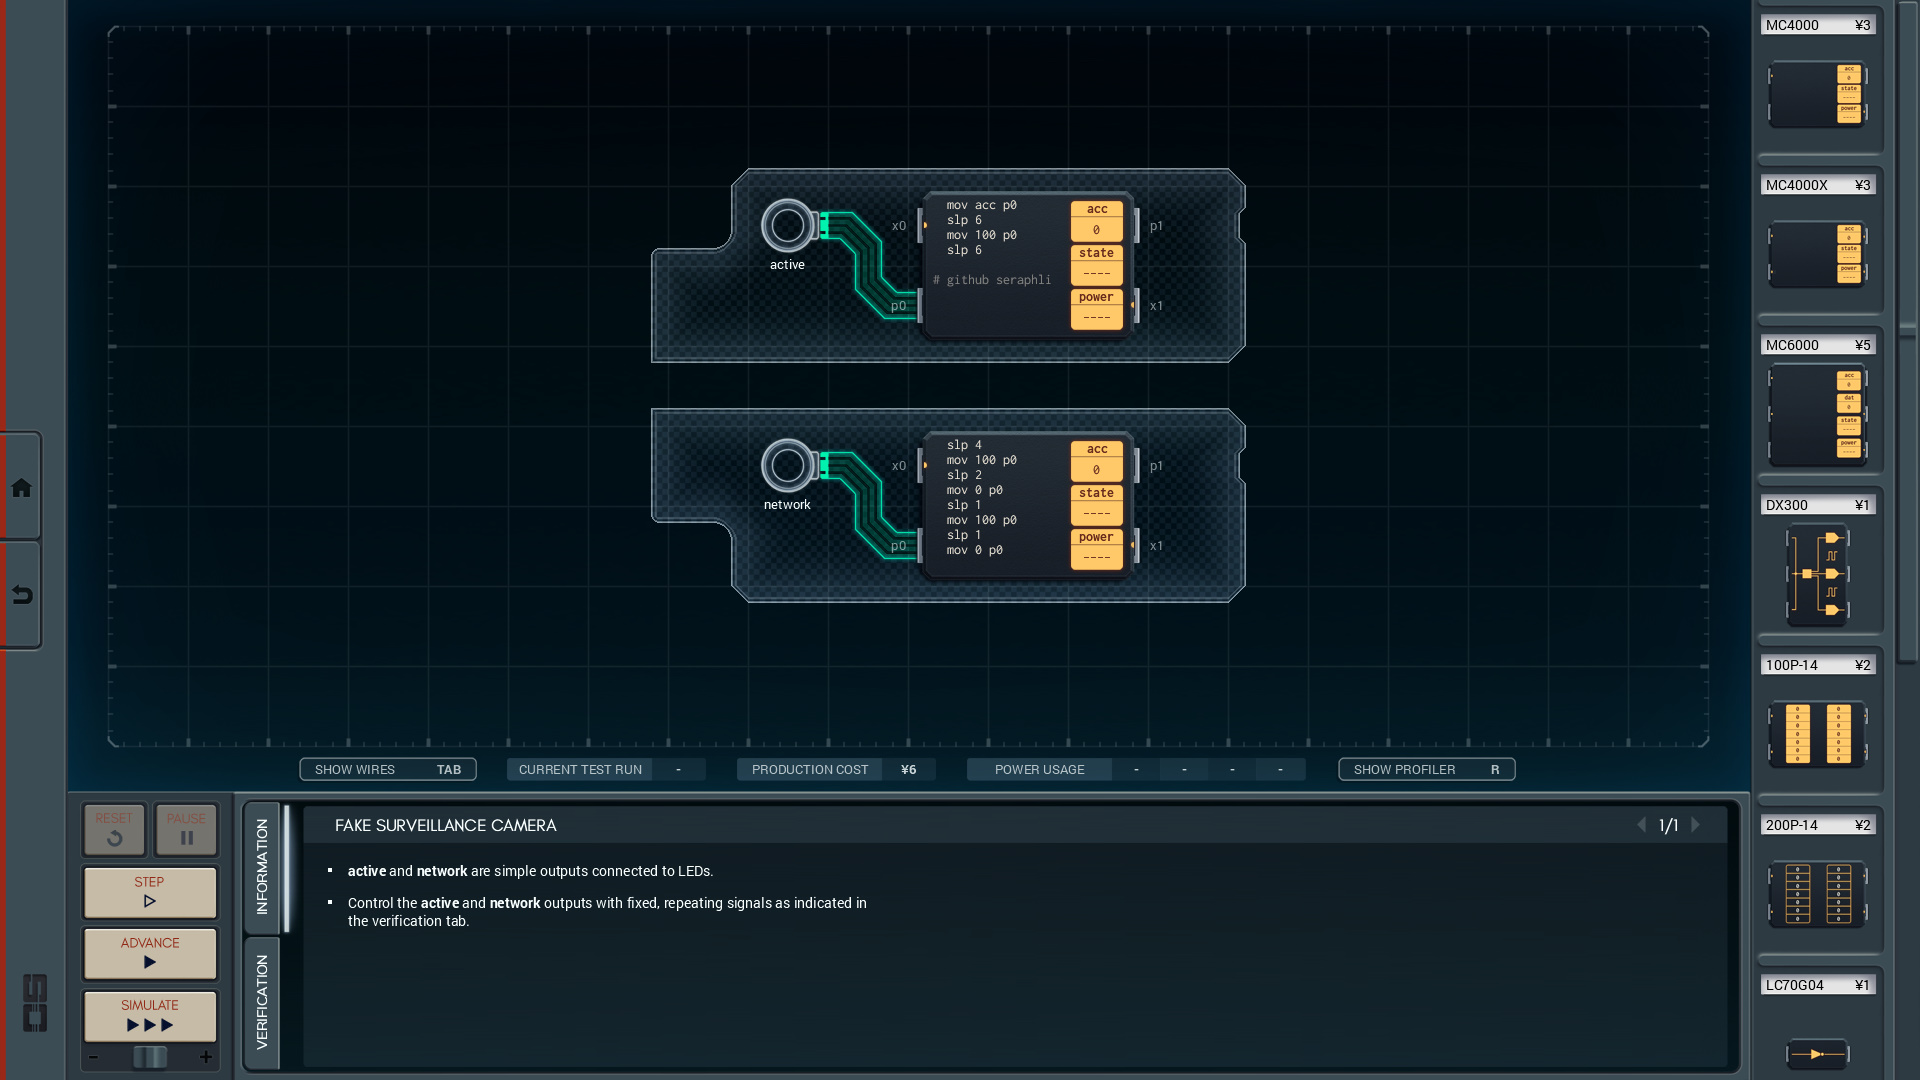
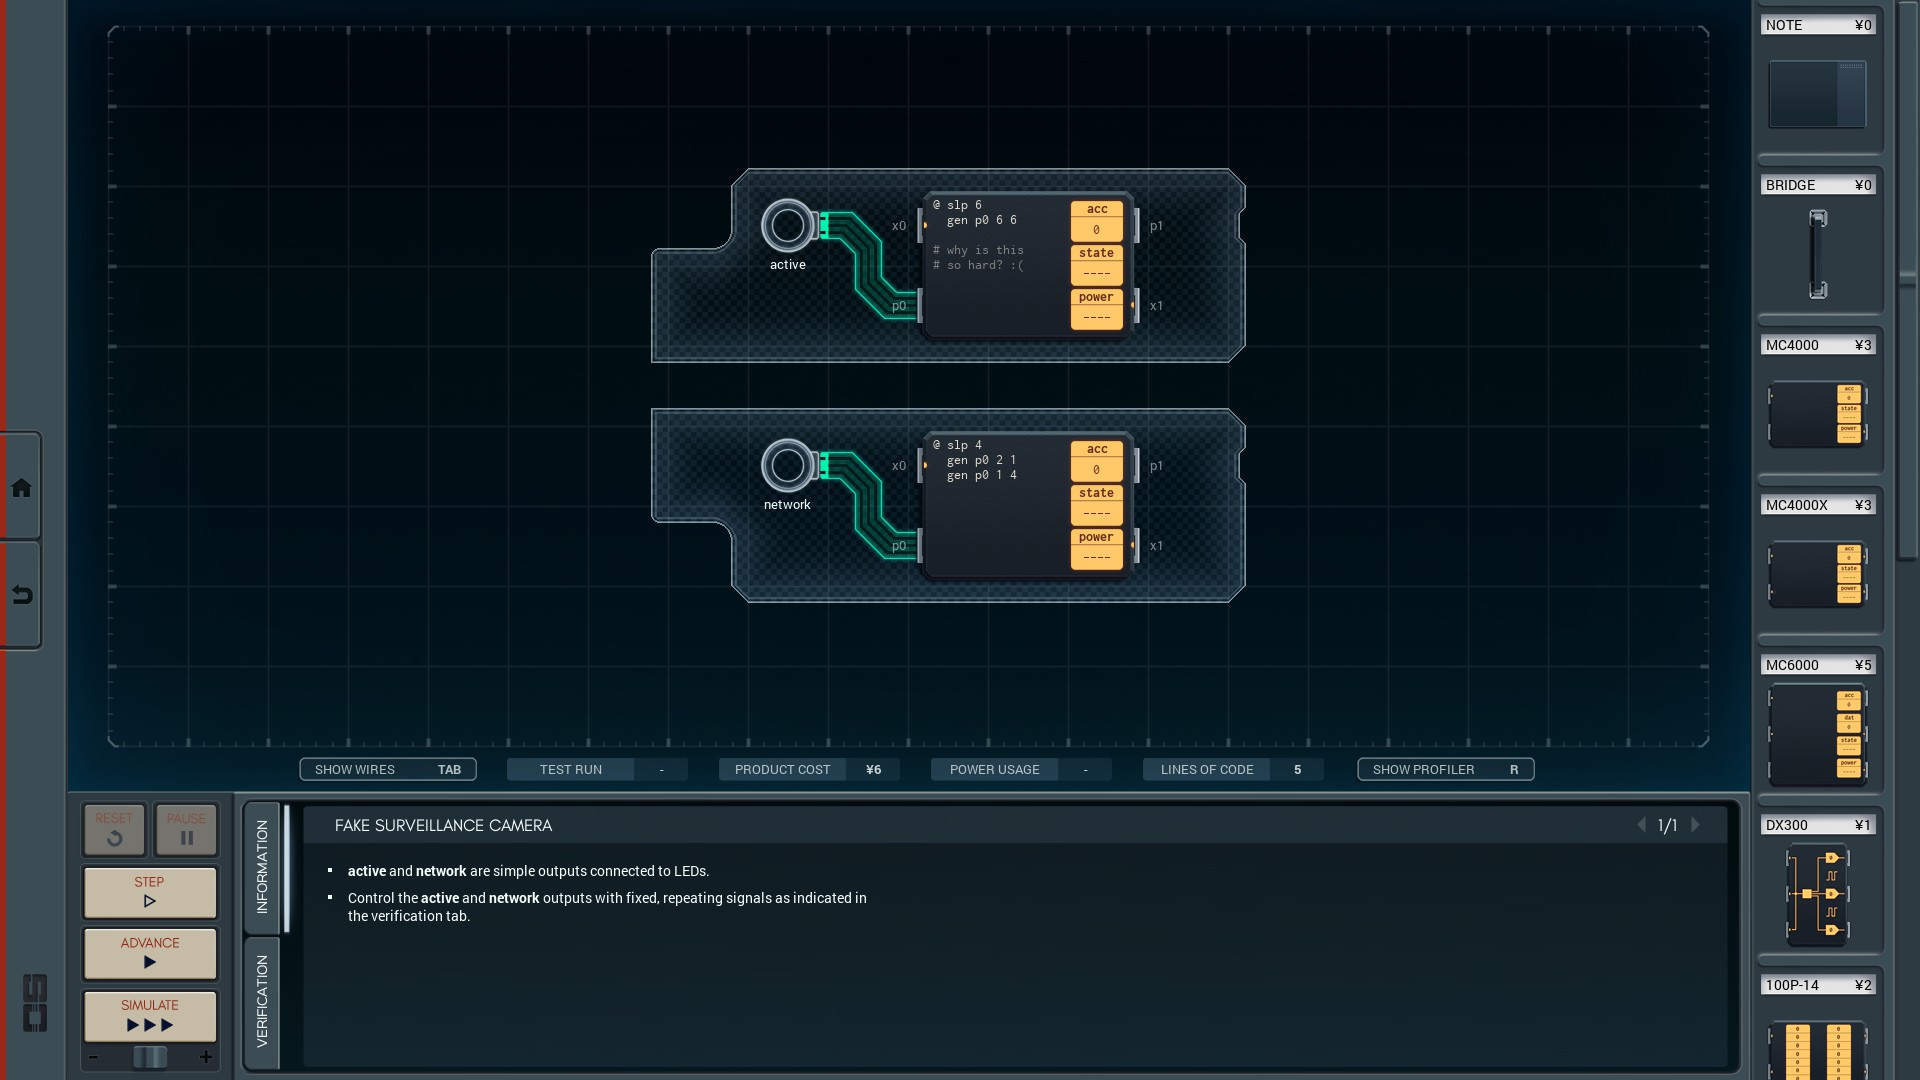
update lv 1

diff --git a/README.md b/README.md
@@ -9,6 +9,12 @@ Information thief is FORBIDDEN!
 
 ## FAKE SURVERLLANCE CAMERA
 
+2017.12.9 Updated.
+
+[Reference](http://steamcommunity.com/sharedfiles/filedetails/?id=780661614)
+
+I didn't know you can add '@' in front of the command to make this command run only once. So this solution is quite efficient.
+
 ![FAKE SURVERLLANCE CAMERA](1.jpg)
 
 ## CONTROL SIGNAL AMPLIFIER
